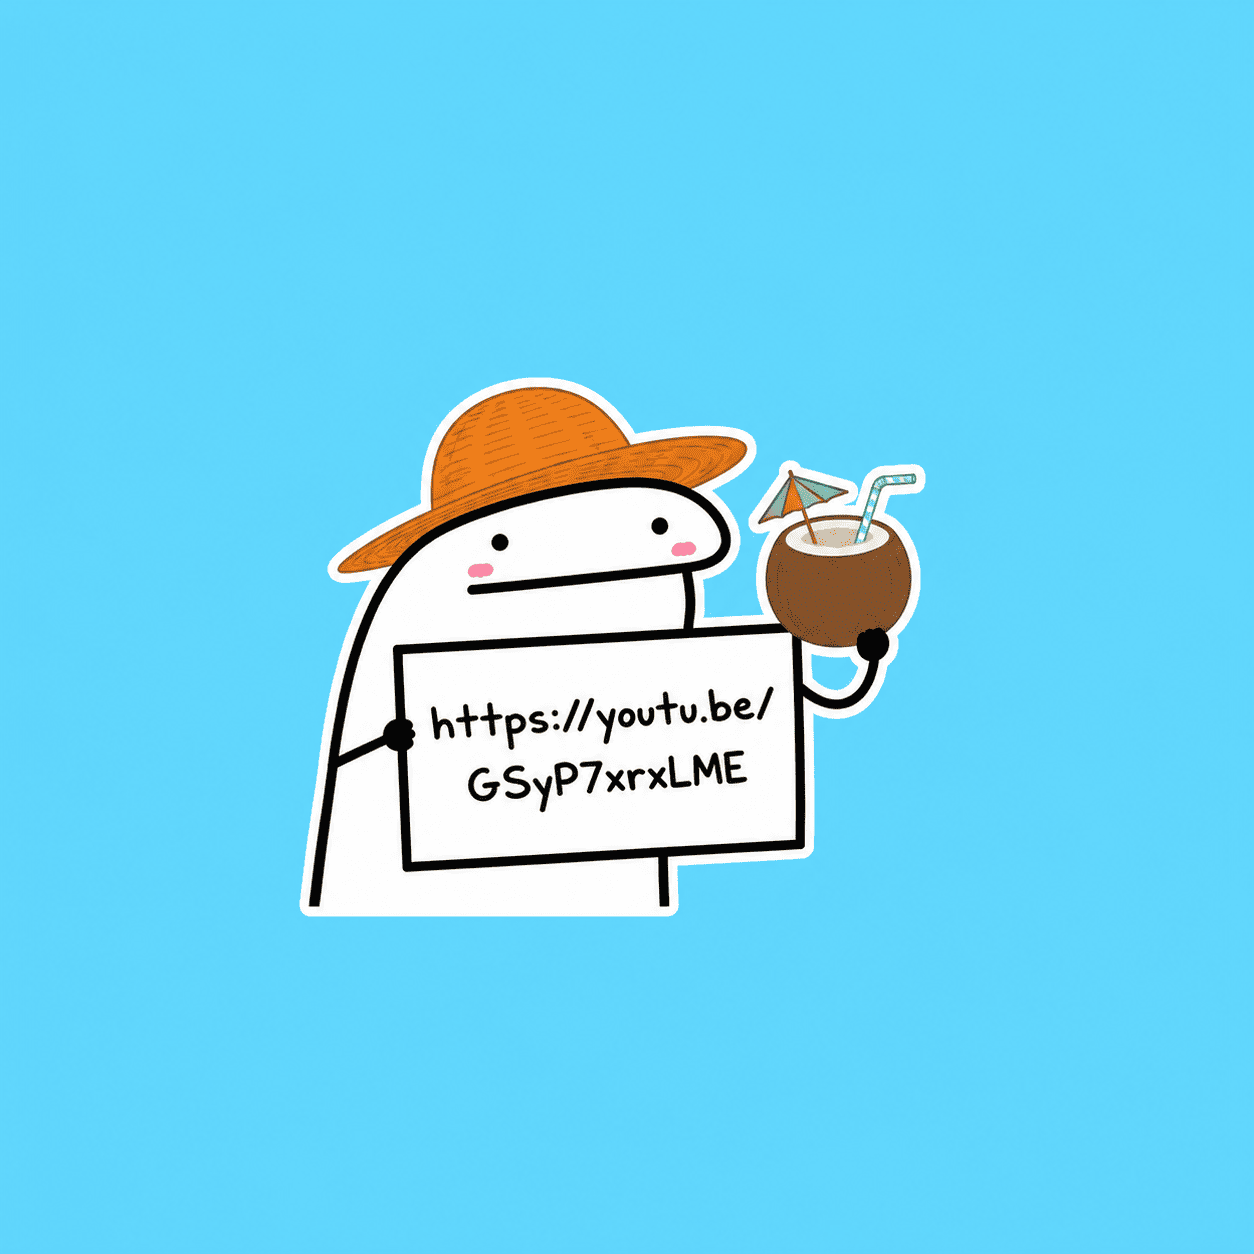
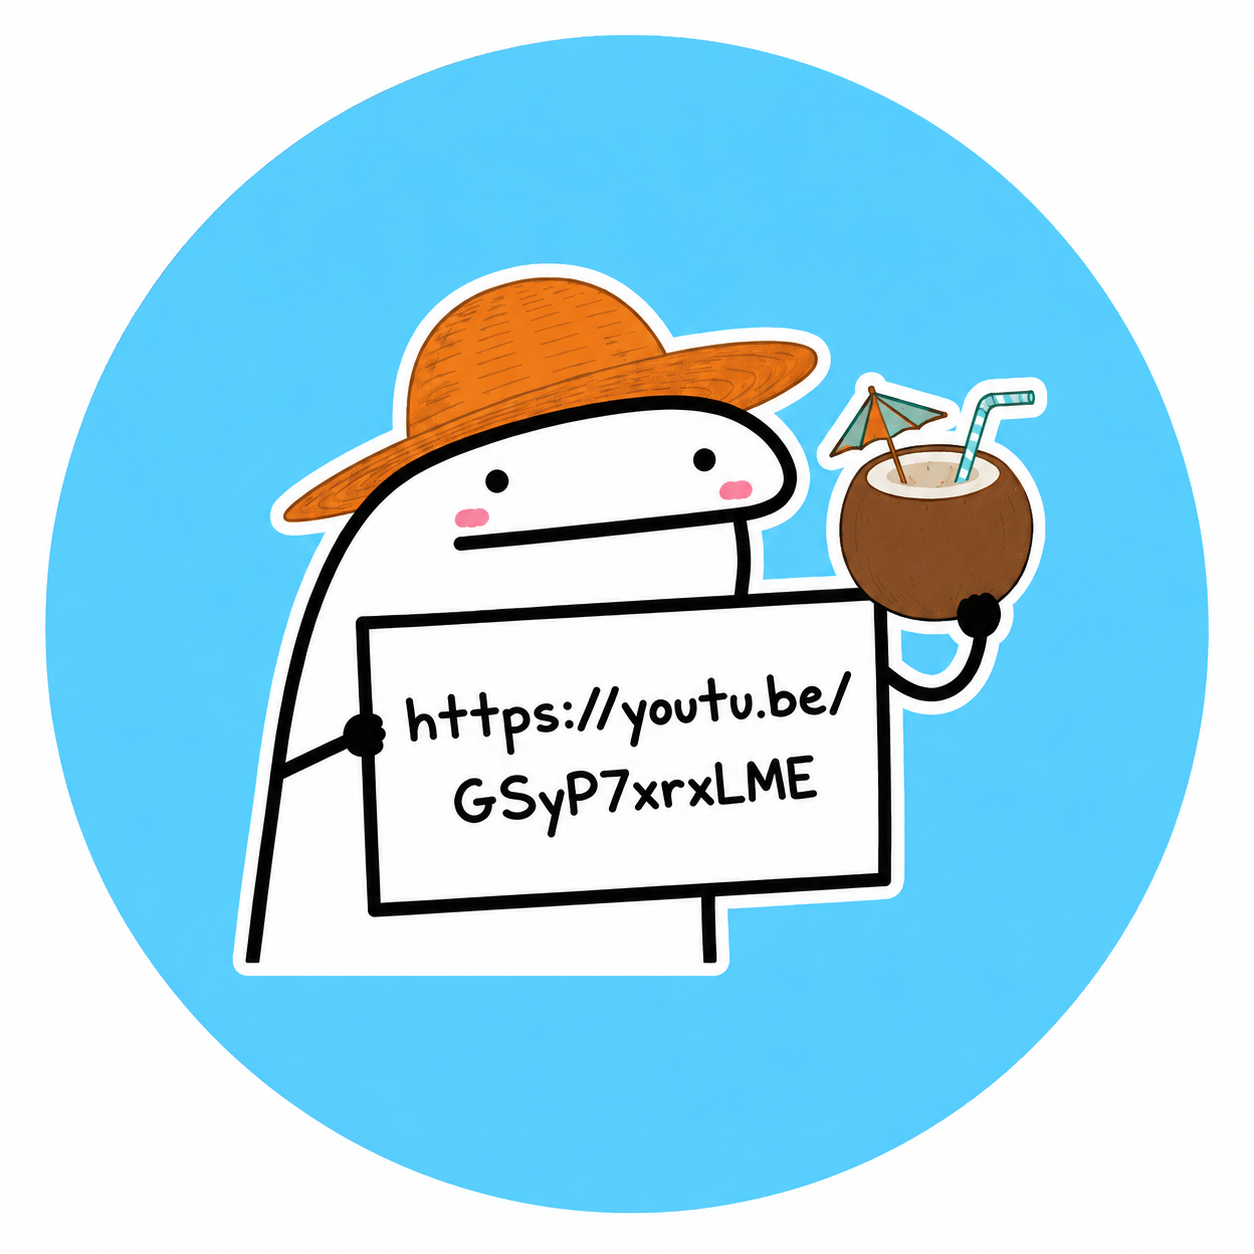
feat: add GitHub-style header mockup to work page

diff --git a/css/work.css b/css/work.css
@@ -9,3 +9,52 @@
   background: #ffffff;
   padding: 5rem 2rem;
 }
+
+.work-topbar {
+  display: flex;
+  justify-content: center;
+  margin-bottom: 2rem;
+}
+
+.work-topbar__url {
+  width: 500px;                    /* size of the url bar — tune as needed */
+  transform: translateX(-80px);    /* nudges it left of dead center — increase to push further left */
+}
+
+.work-nav-row {
+  display: flex;
+  align-items: center;             /* keeps left cluster + right cluster on the same line/height */
+  justify-content: space-between;  /* hamburger+github on far left, icon cluster on far right */
+  padding: 0 2rem;
+  margin-bottom: 1.5rem;
+}
+
+.work-nav-row__left {
+  display: flex;
+  align-items: center;
+  gap: 1rem;                       /* space between hamburger.png and work-github.png */
+}
+
+.work-nav-row__right {
+  display: flex;
+  align-items: center;
+  gap: 0.75rem;                    /* space between each icon in the right cluster */
+}
+
+.work-nav-row__icon {
+  height: 40px;                    /* shared height so everything in this row lines up — override per icon below if needed */
+  width: auto;
+}
+
+.work-subnav {
+  display: flex;
+  align-items: center;
+  gap: 2rem;                       /* space between overview/repositories/projects/packages/stars */
+  padding: 0 2rem;
+  margin-bottom: 3rem;
+}
+
+.work-subnav__icon {
+  height: 30px;
+  width: auto;
+}

diff --git a/work.html b/work.html
@@ -72,7 +72,38 @@
 
   <main>
     <section class="work-intro">
-      <!-- clean slate — new work page content goes here -->
+
+      <div class="work-topbar">
+        <img src="img/workpage/url-bar.png" alt="" class="work-topbar__url" />
+      </div>
+
+      <div class="work-nav-row">
+        <div class="work-nav-row__left">
+          <img src="img/workpage/hamburger.png" alt="" class="work-nav-row__icon work-nav-row__hamburger" />
+          <img src="img/workpage/work-github.png" alt="" class="work-nav-row__icon work-nav-row__github" />
+        </div>
+
+        <div class="work-nav-row__right">
+          <img src="img/workpage/searchbar.png" alt="" class="work-nav-row__icon work-nav-row__searchbar" />
+          <img src="img/workpage/copilot.png" alt="" class="work-nav-row__icon work-nav-row__copilot" />
+          <img src="img/workpage/create-new.png" alt="" class="work-nav-row__icon work-nav-row__create" />
+          <img src="img/workpage/issues.png" alt="" class="work-nav-row__icon work-nav-row__issues" />
+          <img src="img/workpage/pulls.png" alt="" class="work-nav-row__icon work-nav-row__pulls" />
+          <img src="img/workpage/notifications.png" alt="" class="work-nav-row__icon work-nav-row__notifications" />
+          <img src="img/workpage/flork2.png" alt="" class="work-nav-row__icon work-nav-row__flork" />
+        </div>
+      </div>
+
+      <div class="work-subnav">
+        <img src="img/workpage/overview.png" alt="" class="work-subnav__icon" />
+        <img src="img/workpage/repositories.png" alt="" class="work-subnav__icon" />
+        <img src="img/workpage/projects.png" alt="" class="work-subnav__icon" />
+        <img src="img/workpage/packages.png" alt="" class="work-subnav__icon" />
+        <img src="img/workpage/stars.png" alt="" class="work-subnav__icon" />
+      </div>
+
+      <!-- project cards go here next -->
+
     </section>
   </main>
 